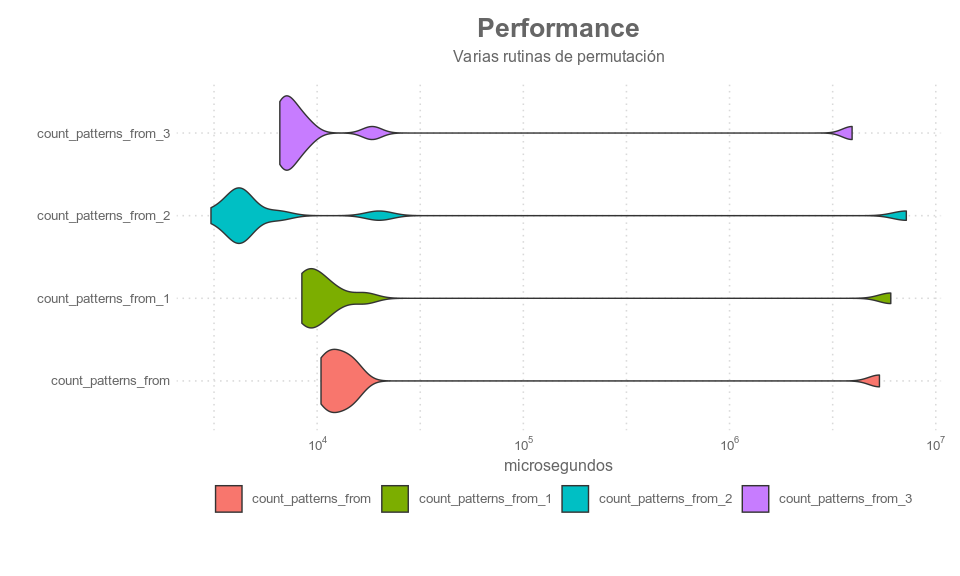
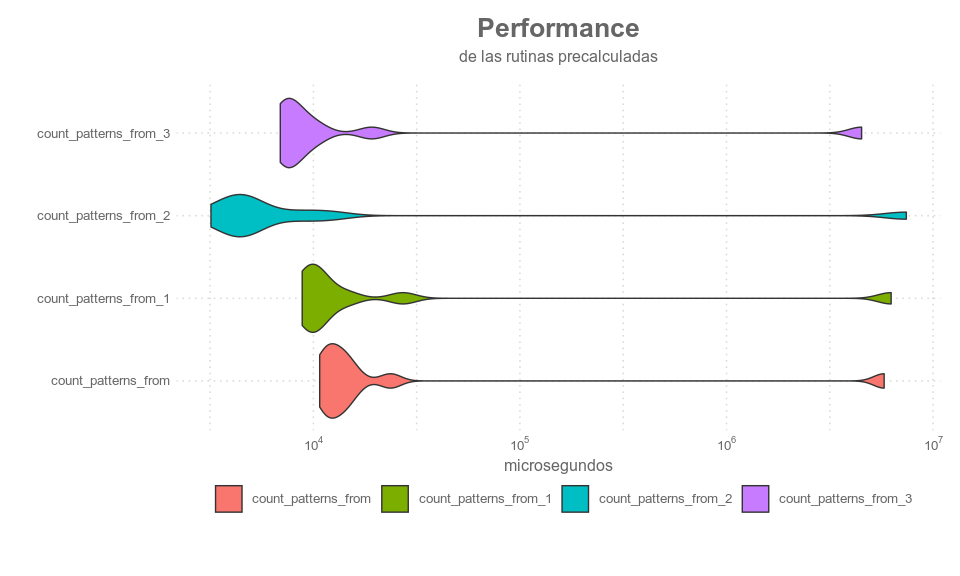
fixes de texto y nuevo plot

diff --git a/_posts/2021/2021-07-07-patrones-desbloqueo-android.md b/_posts/2021/2021-07-07-patrones-desbloqueo-android.md
@@ -33,14 +33,14 @@ output:
 Cuando me aburro, me pueden encontrar respondiendo preguntas en
 [stackoverflow](https://es.stackoverflow.com/questions) o haciendo
 desafíos en [codewars](https://www.codewars.com/). De este último es el
-interesante desafío: [Screen Locking
+interesante problema: [Screen Locking
 Patterns](https://www.codewars.com/kata/585894545a8a07255e0002f1). La
 idea es bien simple, dado un punto inicial en el patrón de bloqueo de
-Android y una cantidad de puntos, calcular la cantidad de posibles
-patrones. Por supuesto:
+Android, un cuadrado de 3x 3, y un número de puntos, calcular la
+cantidad de posibles patrones. Por supuesto:
 
 -   Los patrones deben ser válidos
--   Longitudes de 0 o de 9 o más puntos tienen que arrojar como
+-   Longitudes de 0 o de más de 10 o más puntos tienen que arrojar como
     resultado 0
 
 Y ¿qué es un patrón válido?
@@ -48,9 +48,9 @@ Y ¿qué es un patrón válido?
 -   Los puntos no deben repetirse
 -   Se va de un punto a otro sin pasar por encima de un tercero, a menos
     que:
--   Por el tercer punto ya se haya pasado. Por ejemplo `A->C` es un
+-   Por el tercer punto ya se haya pasado. Por ejemplo `A -> C` es un
     movimiento inválido, por que en el medio del movimiento se pasa por
-    encima de `B`, sin embargo, es totalmente válido hacer `B->A->C`
+    encima de `B`, sin embargo, es totalmente válido hacer `B -> A -> C`
 
 Hay otra restricción no escrita, la solución debe poder correr en un
 tiempo razonable. ¿Cuán razonable? lo determina el servidor de
@@ -62,10 +62,11 @@ Esta fue la primer pregunta que me hice, ciertamente parece un problema
 para aplicar algún algoritmo de camino o incluso de árboles, pero como
 soy cómodo, elegí la opción fácil: “fuerza bruta”, pero entonces
 ¿podemos calcular previamente todos los caminos posibles y enfocarnos
-luego a encontrar los que son válidos?. Veamos, tenemos un patrón de 3 x
-3, con puntos que no deben repetirse, por lo que en definitiva hay un
-espacio de posibilidades de respuesta no mayor a las permutaciones de
-los 9 puntos sin repeticiones por las 9 posibles longitudes pedidas:
+luego a encontrar los que son válidos descartando aquellos que no lo
+son?. Veamos, tenemos un patrón de 3 x 3, con puntos que no deben
+repetirse, por lo que en definitiva hay un espacio de posibilidades de
+respuesta, que seguro no es mayor a las permutaciones de los 9 puntos
+sin repeticiones por las 9 posibles longitudes pedidas:
 
 ``` r
 factorial(9) * 9
@@ -87,24 +88,26 @@ ordenar estos.
 Ya vimos que el número a manejar es importante pero razonable, ahora
 bien **¿Cómo podemos generar todas las permutaciones de 9 elementos en
 `R`?** Bueno, algo sorprendido, debo decir que no hay ninguna rutina
-“base” para generar las mismas, tampoco es que sea nada del otro mundo,
-con un simple código recursivo lo podemos realizar, pero en la red la
-mayoría de la recomendaciones pasan por usar paquetes adicionales, tales
-como:
+“base” para generar esto, tampoco es que sea nada del otro mundo, con un
+simple código recursivo lo podemos realizar, pero en la red la mayoría
+de la recomendaciones pasan por usar paquetes adicionales, tales como:
 
 -   [permutations](https://cran.r-project.org/web/packages/permutations/)
 -   [gtools](https://www.rdocumentation.org/packages/gtools/versions/3.9.2)
 -   [combinat](https://cran.r-project.org/web/packages/combinat/index.html)
 
 También hay algunas funciones de permutación interesantes para mantener
-el código simple y no recurrir a paquetes adicionales:
+el código simple y no recurrir a paquetes adicionales. no lo probé, pero
+dudo que [codewars](https://www.codewars.com/) permita instalar paquetes
+de terceros:
 
 -   [Learning R: Permutations and Combinations with base
     R](https://www.r-bloggers.com/2019/06/learning-r-permutations-and-combinations-with-base-r/)
 -   [Generating all distinct permutations of a list in
     R](https://stackoverflow.com/questions/11095992/generating-all-distinct-permutations-of-a-list-in-r)
 
-Veamos algunas funciones interesantes y estudiemos su performance:
+Veamos una recopilación de funciones interesantes y estudiemos su
+performance con `microbenchmark`:
 
 ``` r
 # From: https://www.r-bloggers.com/2019/06/learning-r-permutations-and-combinations-with-base-r/
@@ -200,6 +203,8 @@ summary(df)
     ## 4    10
     ## 5    10
 
+Visualmente:
+
 ``` r
 df %>% 
   ggplot(df, mapping=aes(y=expr, x=time, fill=expr)) +
@@ -222,8 +227,7 @@ df %>%
 La rutina dos, sin duda se lleva todos los premios, aunque parece tener
 una larga cola producto de un “outlier”, algo curioso, ya que si bien
 tiene un funcionamiento bastante estable, se verifica siempre que la
-segunda ejecución es la única dónde el tiempo crece hasta 5 veces el
-valor medio.
+segunda ejecución es dónde el tiempo crece hasta 5 veces el valor medio.
 
 ``` r
 library(tidyverse)
@@ -289,13 +293,13 @@ length(M)
 
     ## [1] 3265920
 
-Una de las restricciones, que se nos pide, es la longitud o la cantidad
-de puntos, por lo que deberemos “recortar” la matriz en función de la
-longitud, el problema es que quedaran permutaciones repetidas que
-tendremos que eliminar. La otra restricción es que se nos pide arrancar
-de un determinado punto, por lo que deberemos filtrar nuestra matriz por
-el valor de la primer columna. Imaginemos que se nos pide comenzar el
-patrón desde el punto `D` y que la longitud sea 3:
+Una de las restricciones, que se nos pide, es una longitud o cantidad de
+puntos, por lo que deberemos “recortar” la matriz en función de dicha
+longitud, el problema es que al hacer esto, quedaran permutaciones
+repetidas que tendremos que eliminar. La otra restricción es que se nos
+pide comenzar de un determinado punto, por lo que deberemos filtrar
+nuestra matriz por el valor de la primer columna. Imaginemos que se nos
+pide comenzar el patrón desde el punto `D` y que la longitud sea 3:
 
 ``` r
 l <- 3
@@ -310,17 +314,18 @@ todos
     ## [37] "DGB" "DGC" "DGE" "DGF" "DGH" "DGI" "DHA" "DHB" "DHC" "DHE" "DHF" "DHG"
     ## [49] "DHI" "DIA" "DIB" "DIC" "DIE" "DIF" "DIG" "DIH"
 
-Tenemos entonces, todas las combinaciones desde “D” de longitud 3 de los
-9 puntos. El problema final, es que no todas son válidas. Ya habíamos
-comentado, que no se puede saltear un punto, por ejemplo `D -> F` es una
-combinación inválida por que en el medio está `E` igual ocurre con
-`F -> D` sin embargo, y acá está lo complejo, podría ser válido hacer
-`E -> D -> F` en este caso el conjunto `D -> F` es válido por que ya
-hemos pasado por `E`. Hay una resolución muy interesante en **Python**
+Hemos logrado obtener todas las combinaciones comenzando en `D` y con
+una longitud 3 de los 9 posibles puntos. El problema final, es que no
+todas estas combinaciones son válidas. Ya habíamos comentado, que no se
+puede saltear un punto, por ejemplo `D -> F` es una combinación inválida
+por que en el medio está `E` igual ocurre con `F -> D` sin embargo, y
+acá está lo complejo, podría ser válido hacer `E -> D -> F` en este caso
+el conjunto `D -> F` es válido por que ya hemos pasado por `E`. Hay una
+resolución muy interesante en **Python**
 [aqui](https://stackoverflow.com/a/34613759/6836377) que calcula la
 cantidad de soluciones totales, y maneja un diccionario dónde se guardan
-los movimientos inválidos y el punto para que eventualmente lo sean, en
-`R` sería algo como esto:
+los movimientos inválidos y el punto para que eventualmente dicho patrón
+sea válido, en `R` sería algo como esto:
 
 ``` r
 invalidos <- read.table(text='patron, a_menos_que
@@ -343,15 +348,15 @@ invalidos <- read.table(text='patron, a_menos_que
 ```
 
 Es decir, tenemos un `data.frame` con los movimientos inválidos y una
-columna `a_menos_que` que nos da, para dicho patrón, el punto que
-debería existir antes para considerar al patrón válido.
+columna `a_menos_que` que nos dice, para dicho patrón, el punto que
+debería existir antes para considerarlo válido.
 
 Teniendo esto y las permutaciones arrancando de un punto dado y de la
 longitud solicitada, lo único que restaría es eliminar efectivamente los
 patrones inválidos. Imagino que hay varias formas de hacerlo, yo elegí
-usar expresiones regulares, armando un patrón a partir de `invalidos`
-dónde encontrar aquellos efectivamente inválidos, es decir que no tengan
-un `a_menos_que` antes:
+usar expresiones regulares, armando un patrón `regex` a partir de
+`invalidos` dónde encontrar aquellos efectivamente inválidos, es decir
+que no tengan un `a_menos_que` antes:
 
 ``` r
 patrones <- paste(apply(invalidos, 1, function(x) {paste0("^[^", x[2], "]*", x[1], ".*$|", x[1], ".*", x[2])}), collapse="|")
@@ -436,8 +441,8 @@ count_patterns_from <- function(f, l) {
 ```
 
 Y ya tenemos la función solicitada en el desafío. Un momento: ¿seguro?,
-bueno en realidad no, si bien funciona bien y con tiempos de calculo
-razonable, lamentablemente no tan “razonables” para
+bueno en realidad no, si bien funciona bien y con un tiempo de calculo
+razonable, lamentablemente no tan “razonable” para
 [codewars](https://www.codewars.com/). Qué desepción! tanto trabajo para
 nada, a menos que… no no puede funcionar.. aparte sería una vergüenza..
 bueno al menos podríamos probarlo. ¿Y sí precalculamos el espacio de
@@ -536,10 +541,10 @@ summary(df)
 ```
 
     ##                    expr    min     lq     mean  median     uq      max neval
-    ## 1   count_patterns_from 10.443 11.145 544.6781 12.8245 15.234 5332.132    10
-    ## 2 count_patterns_from_1  8.432  8.874 614.7270 10.1980 12.659 6051.479    10
-    ## 3 count_patterns_from_2  3.056  4.087 725.3517  4.2705  6.446 7198.810    10
-    ## 4 count_patterns_from_3  6.593  6.884 400.7109  7.5380  9.150 3928.927    10
+    ## 1   count_patterns_from 10.729 11.736 592.3144 13.5375 15.871 5796.512    10
+    ## 2 count_patterns_from_1  8.828  9.656 637.8339 10.4460 14.651 6266.660    10
+    ## 3 count_patterns_from_2  3.193  4.183 747.3586  4.7925  8.414 7422.810    10
+    ## 4 count_patterns_from_3  6.916  7.313 459.2330  8.1025 10.659 4508.255    10
 
 Visualmente:
 
@@ -553,7 +558,7 @@ df %>%
     labels = scales::trans_format("log10", scales::math_format(10^.x))
   ) +
   labs(title = paste("Performance"), 
-     subtitle = paste("Varias rutinas de permutación") , 
+     subtitle = paste("de las rutinas precalculadas") , 
      caption = "", 
      y = "", 
      x = "microsegundos"
@@ -564,7 +569,7 @@ df %>%
 
 Como era de esperar se comportan bastante parecido todas. ¿Y las otras?
 hay varias soluciones no precalculads que me intrigan ver como
-funcionan. (Veremo… TO BE CONTINUED)
+funcionan. (Veremos… TO BE CONTINUED)
 
 ## Lecciones aprendidas
 
@@ -572,5 +577,5 @@ funcionan. (Veremo… TO BE CONTINUED)
     programadores, es más, posiblemente sea la que menos “bugs” pueda
     llegar a tener eventualmente.
 -   Una obviedad, la fuerza “bruta” sirve, siempre que el espacio de
-    solución sea acotado
+    solución sea acotado a los limites que impone el hardware
 -   Las expresiones regulares sirven para casi todo.
